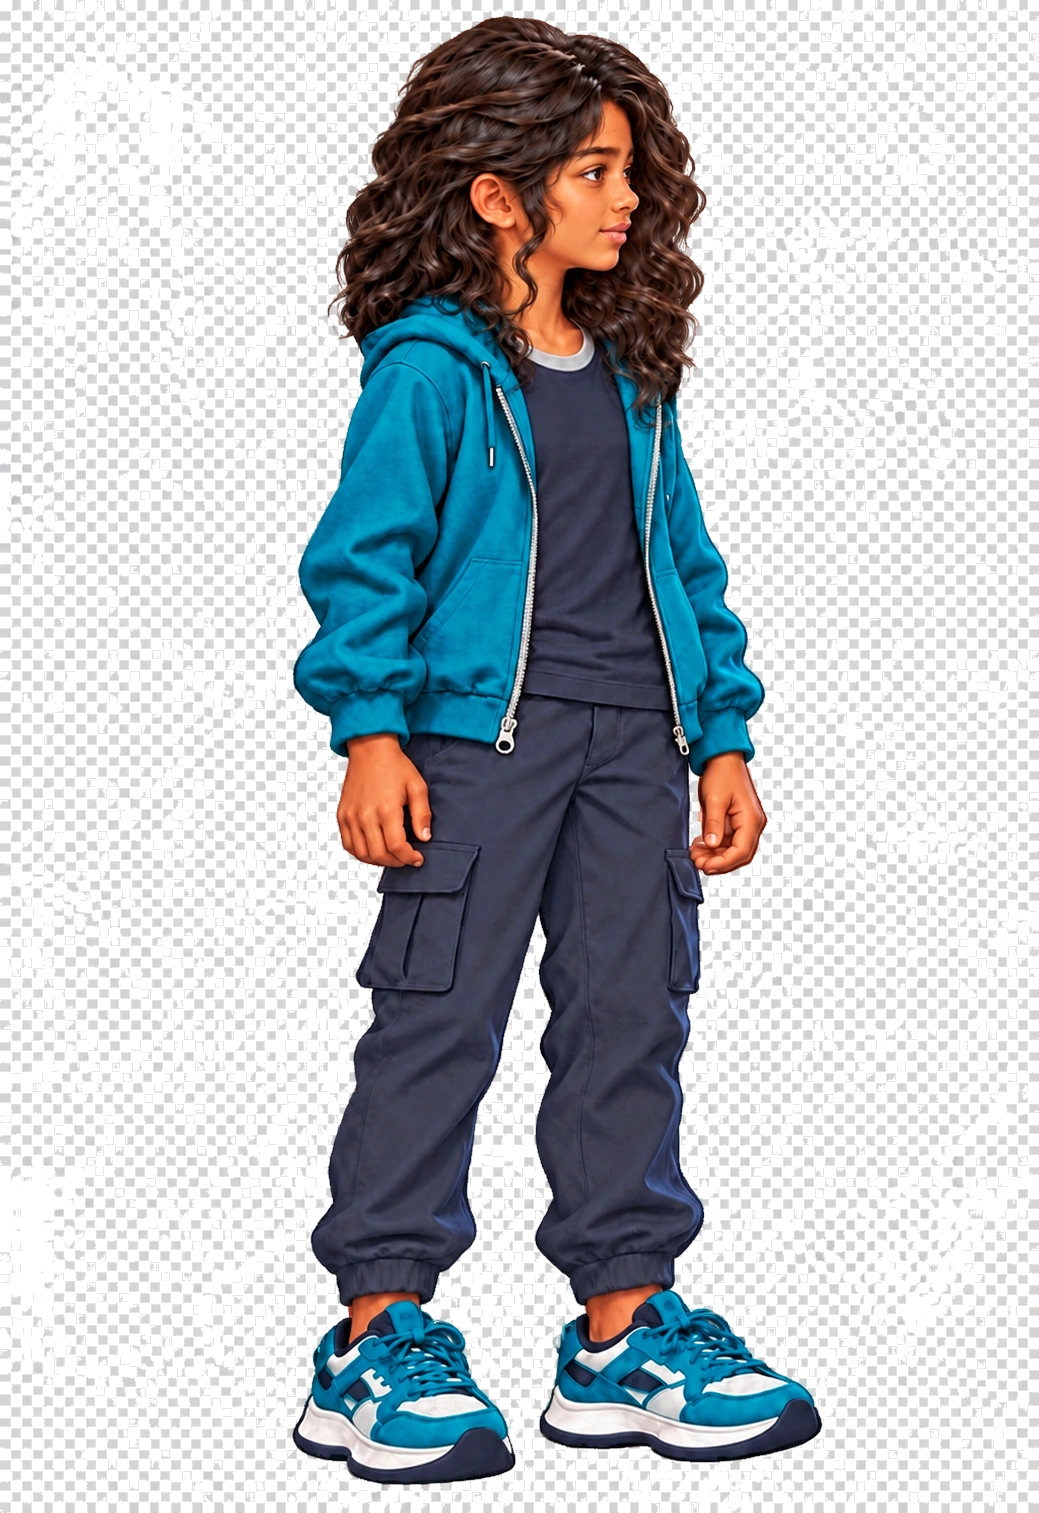
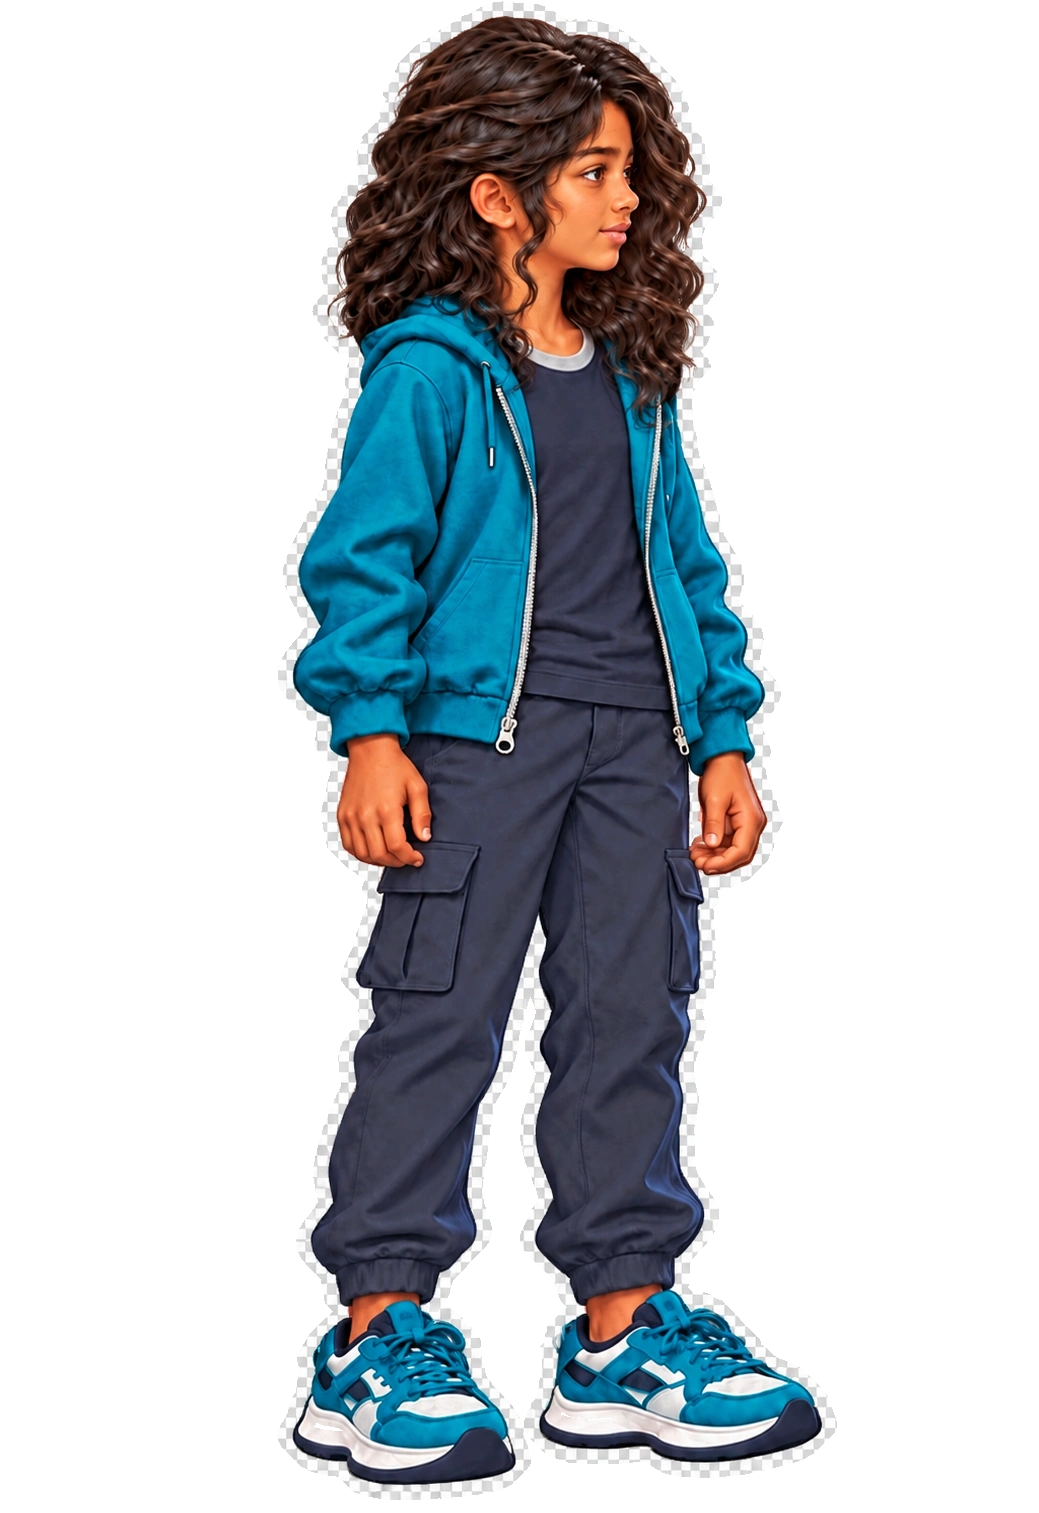
Fix transparency on E sprite update

Changed region(s): [[0.0, 0.0, 1.0, 1.0]]

diff --git a/game.js b/game.js
@@ -28,7 +28,7 @@ const PEOPLE = {
   E: {
     age: "Preteen",
     accent: "#20c9c3",
-    art: { human: "assets/forms/e-human-realistic-eyes-20261010.webp?v=case-20261011-e1", selectionHuman: "assets/forms/e-human-realistic-eyes-20261010.webp?v=case-20261011-e1", run: "assets/forms/e-human-run-realistic-eyes-20261010.webp?v=case-20261011-e1", flight: "assets/forms/e-snowy-owl.svg", flightRun: "assets/forms/e-snowy-owl-run.svg", groundRun: "assets/forms/e-snowy-owl-walk.svg", horned: "assets/forms/e-flight.webp", hornedRun: "assets/forms/e-flight-run-20261010.webp", chaos: "assets/forms/e-chaos.webp", chaosRun: "assets/forms/e-chaos-run-20261010.webp" },
+    art: { human: "assets/forms/e-human-realistic-eyes-20261010.webp?v=case-20261011-e2", selectionHuman: "assets/forms/e-human-realistic-eyes-20261010.webp?v=case-20261011-e2", run: "assets/forms/e-human-run-realistic-eyes-20261010.webp?v=case-20261011-e2", flight: "assets/forms/e-snowy-owl.svg", flightRun: "assets/forms/e-snowy-owl-run.svg", groundRun: "assets/forms/e-snowy-owl-walk.svg", horned: "assets/forms/e-flight.webp", hornedRun: "assets/forms/e-flight-run-20261010.webp", chaos: "assets/forms/e-chaos.webp", chaosRun: "assets/forms/e-chaos-run-20261010.webp" },
     human: { animal: "Human", ability: "Quick thinking", description: "A small person with an alarmingly large speed boost." },
     flight: { animal: "Snowy owl", ability: "Night sight", description: "Glide silently, spot hidden things, and vanish into the snow." },
     chaos: { animal: "Cheetah", ability: "Fast as heck", description: "Turn a tiny opening into a full-speed blur." }

diff --git a/index.html b/index.html
@@ -84,7 +84,7 @@
     </section>
   </main>
 
-  <script src="game.js?v=case-20261011-44"></script>
+  <script src="game.js?v=case-20261011-45"></script>
 </body>
 </html>
 
